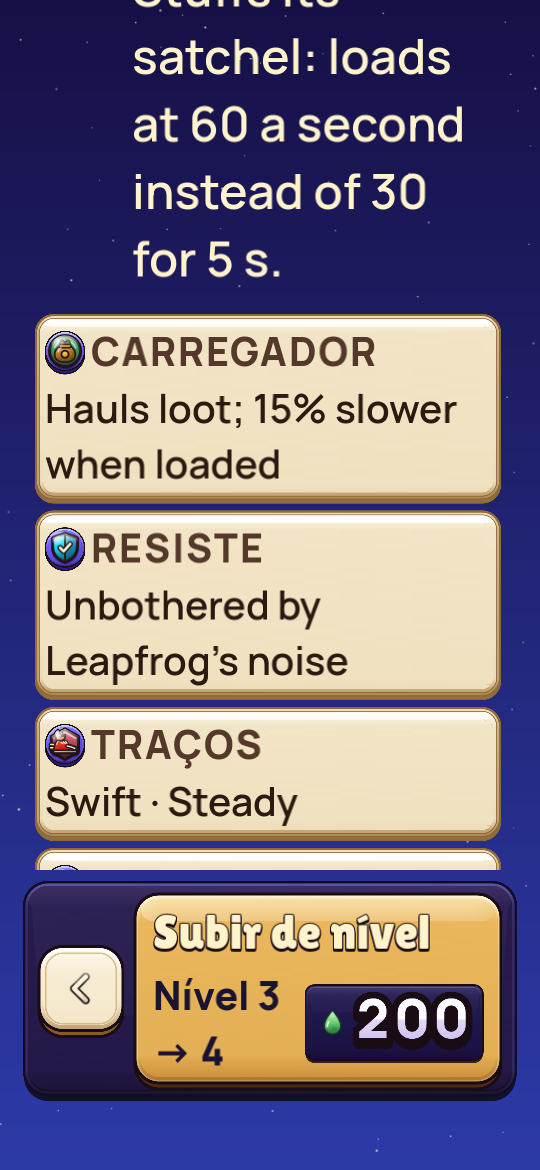
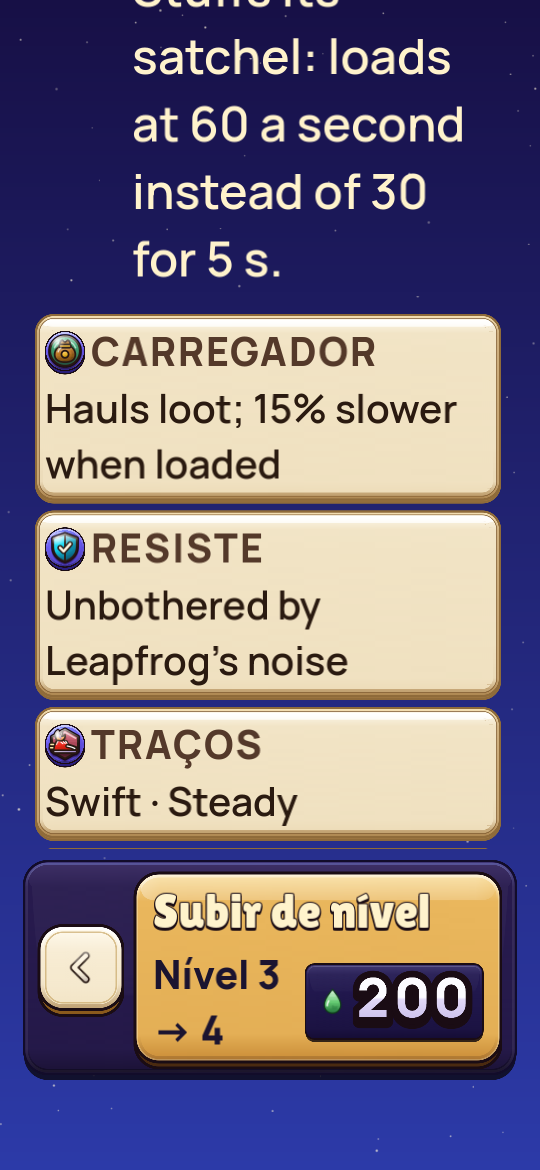
S3: character tray back to 20 points off the foot (corner band); stills re-rendered
Claude-Session: https://claude.ai/code/session_01SNkKxobxLMm7bkJemfXcuS

Changed region(s): [[0.0296, 0.7077, 0.9778, 0.9538]]

diff --git a/docs/art/tracks/menu-screens.md b/docs/art/tracks/menu-screens.md
@@ -176,7 +176,7 @@ AD's board 5 (`docs/art/ui-quality/gate/boards/board-5.md`) raised five objectio
   - **The ability card.** The tag sits inline after the kicker, and the ability's sentence takes two lines (S3-R10).
   - **The facts.** They are compact, as key frame 04's: the disc beside the kicker, the words under both across the card at 13 points, and 6 points of padding (`_compact`, S3-R13).
   - **Kickers that run tight.** A kicker drops its tracking, as the kit's tags are set, when its longest word, or the kicker with its tag, is wider than its room (`_untrack_when_tight`, S3-R14). German "EIGENSCHAFTEN" stands whole, and Portuguese "HABILIDADE" keeps its tag on its line.
-  - **The tray** sits 6 points nearer the foot.
+  - **The tray** keeps its 20 points off the column's foot. Moving it 6 points nearer the foot, as key frame 04's, put the way back inside the corner band (see below).
 - **D: the display type.**
   - **The level tag.** The hexagon grows with the player's text, so its "LV", "NV" or "ST" kicker stays inside it at every size.
   - **Words on the backdrop.** The subtitle and level line wear the kit's ink outline at every size (`ScreenKit.inked`). At large text, as the large-text key frame, they wear a heavier one (12% of their size) and the display type's hard drop (`_over_stage`).
@@ -185,7 +185,7 @@ AD's board 5 (`docs/art/ui-quality/gate/boards/board-5.md`) raised five objectio
 
 #### Evidence
 
-The stills and records are in `docs/art/shots/menu-screens/`. They were rendered on the board-5 code (06c06f8e) with this command, the table's env set, and every still printed `fit ok`:
+The stills and records are in `docs/art/shots/menu-screens/`. They were rendered on the board-5 code, with the tray at 20 points off the foot, with this command, the table's env set, and every still printed `fit ok`:
 
 ```
 [env] FIT=1 bash tools/render/shoot.sh client/tests/shots/screen_character.gd <still>
@@ -226,7 +226,7 @@ The ΔL* that value-steps measures:
 
 #### What still differs from the key frame
 
-- **The tray's height above the foot.** The tray stands about 65 points above the screen's foot, against about 40 in key frame 04. The layout check's corner band, the bottom 8% of the screen, holds the way back at least 62 points above the foot. This is board 5's note for K1 (`ui.gd`'s bottom margin).
+- **The tray's height above the foot.** The tray stands about 65 points above the screen's foot, against about 40 in key frame 04. The layout check's corner band, the bottom 8% of the screen, holds the way back at least 62 points above the foot. This is board 5's note for K1 (`ui.gd`'s bottom margin). A try at 6 points off the column's foot, against 20, put the way back's lower edge at 2,166 of 2,340 pixels, inside that band. The client's layout tests failed at 9:16 and 9:19.5, and at 150% and 200% text, so the tray stays at 20.
 - **The ability card at 200% text.** Its tag line and its sentence run under the tray as scroll content. The key frame's header band shows only the icon and kicker above the tray, as this build does.
 - **Mixed tracking.** In German at 100%, the traits kicker drops its tracking while its neighbours keep theirs, until the kit's cards do the same (S3-R14).
 - **English content.** The ability's sentence, "Two uses a heist" and "Hauls loot" are English in pt_BR and German. This is content localisation, not the screen's work, and the pt_BR key frame shows the same.
